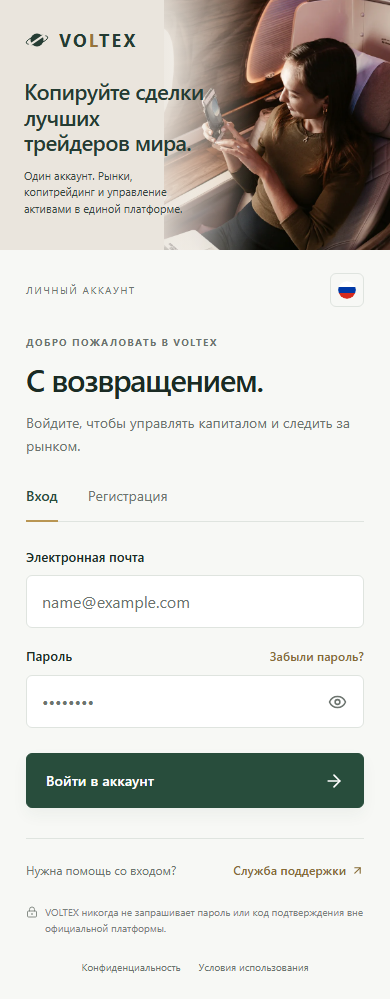
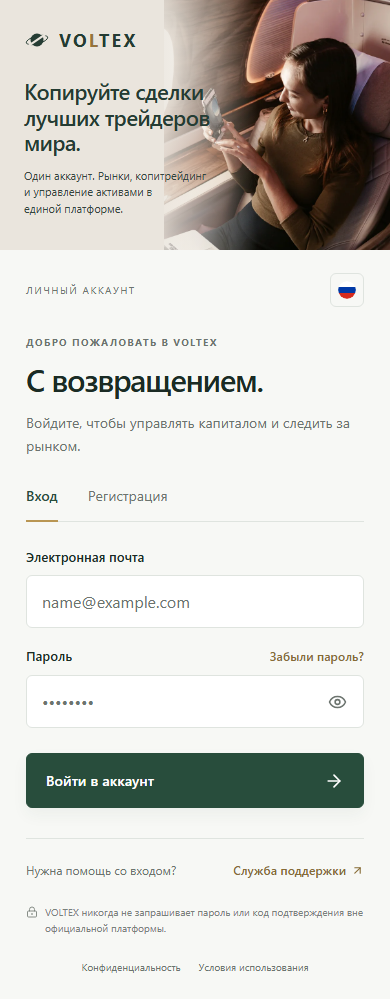
fix(auth): keep compact mobile headline within three lines

Changed region(s): [[0.0615, 0.0931, 0.5231, 0.2172]]

diff --git a/frontend/src/pages/auth-shell/auth-shell.css b/frontend/src/pages/auth-shell/auth-shell.css
@@ -205,7 +205,7 @@ body:has(.vx-auth) .support-launcher[aria-expanded="false"] { display: none !imp
   .vx-auth-brand::after { background: linear-gradient(90deg, #eae5dd 0%, #eae5dd 37%, #eae5dd00 66%); }
   .vx-auth-brand-head a > span { font-size: 18px !important; }
   .vx-auth-brand-head a > span > svg { width: 26px; height: 26px; }
-  .vx-auth-hero { width: 53%; margin-top: 22px; }
+  .vx-auth-hero { width: 58%; margin-top: 22px; }
   .vx-auth-hero h2 { margin-bottom: 12px; font-size: 22px; line-height: 1.16; letter-spacing: -.6px; text-wrap: initial; }
   .vx-auth-lead { font-size: 11px; line-height: 1.5; }
   .vx-auth-copyright { display: none; }

diff --git a/docs/qa/auth-business-class/README.md b/docs/qa/auth-business-class/README.md
@@ -1,12 +1,13 @@
 # Login / Register — business-class visual review
 
 Base: fresh main `deb4b10746caf63107da05dfdb0806de8f713096`.
+Refreshed onto main `a9815b84fe9d9e0449ce7c2d42fb04eaba87951c`, retaining PR #465.
 Branch: `codex/auth-business-class-visual`. No merge or production deployment.
 
 The owner selected genuine business-class photograph option 1. The left visual
 is rebuilt around that image: 50/50 desktop composition, restrained Russian
 headline, local light gradient behind the text, no card/avatars/investor-count
-overlay. Mobile gets a separately cropped photograph and 250–272px hero, not the
+overlay. Mobile gets a separately cropped photograph and 250px hero, not the
 former large dark panel. The actual right forms and their theme are preserved.
 
 ## Evidence
@@ -20,7 +21,8 @@ former large dark panel. The actual right forms and their theme are preserved.
 at 1920 / 1440 / 1366 / 430 / 390 / 360 / 320 for both routes. All 14 local cases
 passed: no horizontal overflow, clipped text, broken image, console/page error,
 failed request, external request or write. Measured CLS was 0. The email input is
-on the first mobile screen. Password visibility toggles and both tabs retain
+on the first mobile screen. The headline stays within three lines at every tested
+width. Password visibility toggles and actual navigation through both tabs retain
 their behavior and return destination. No account is created or logged in.
 
 The auth-visual workflow repeats this on the exact PR head in Linux Chromium and
